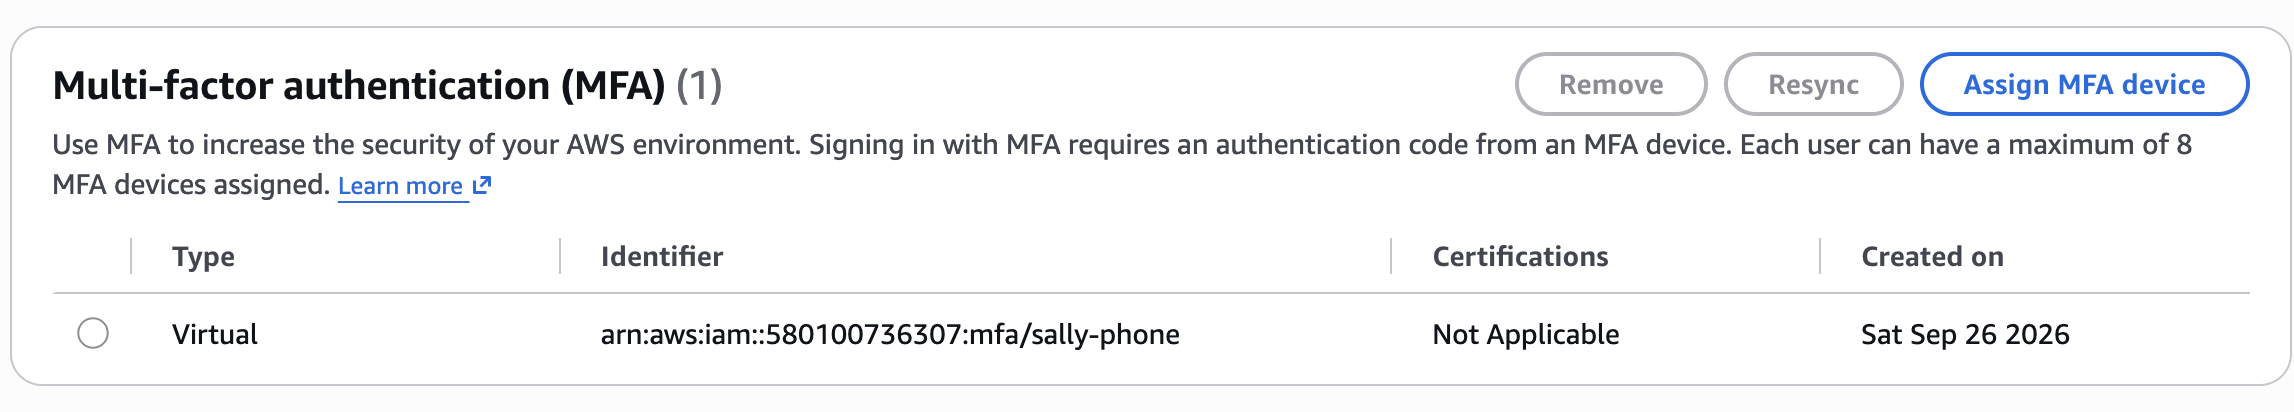
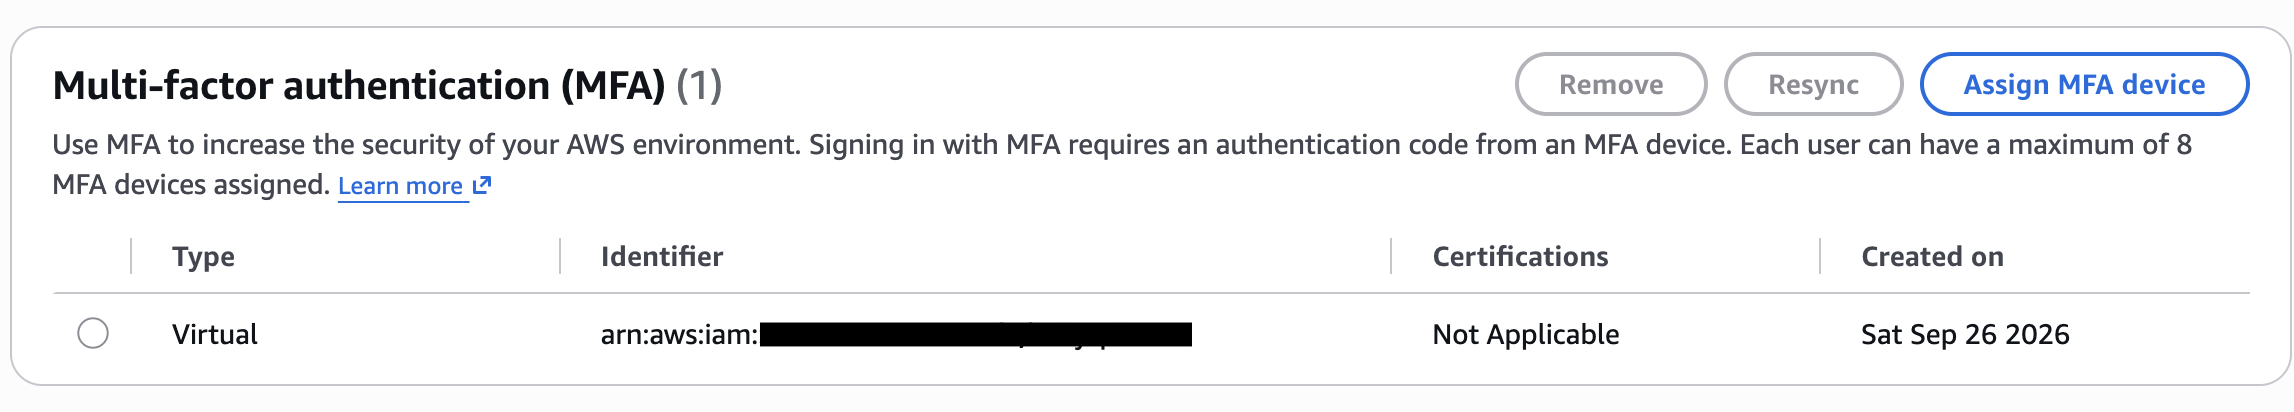
update

Changed region(s): [[0.3095, 0.7573, 0.5262, 0.8447]]

diff --git a/week-01/README.md b/week-01/README.md
@@ -1,0 +1,3 @@
+# Week 1 reflection
+### For week 1, we focus on foundational AWS account security and the critical distinction between the root user and IAM users. The root user is the parent account created when the account was created, and has unrestricted power over the entire AWS account, including closing the account, deleting all data, and modifying credit card payment information. Therefore, we need to lock the MFA and put it in a safe, never use it for routine operations. The routine task must be operated by an IAM user, and needs to follow the principle of least privilege: grant only the necessary permissions, and the access key can be rotated or revoked at any time to reduce the disaster in the event of a leak.
+### Under the Shared Responsibility Model, Amazon famously states that "AWS secures OF the cloud, you secure IN the cloud." Their responsibility covers physical and underlying defenses, physical data centers, hardware facilities, and virtualization layers. And for the customer side, including  operating system updates, security groups, identity and access control (IAM), and data encryption. This is achieved through the zero-spend budget alert set this week. All of these reinforces the fundamental requirement for cloud architects to strike a balance between system security and cost control.
